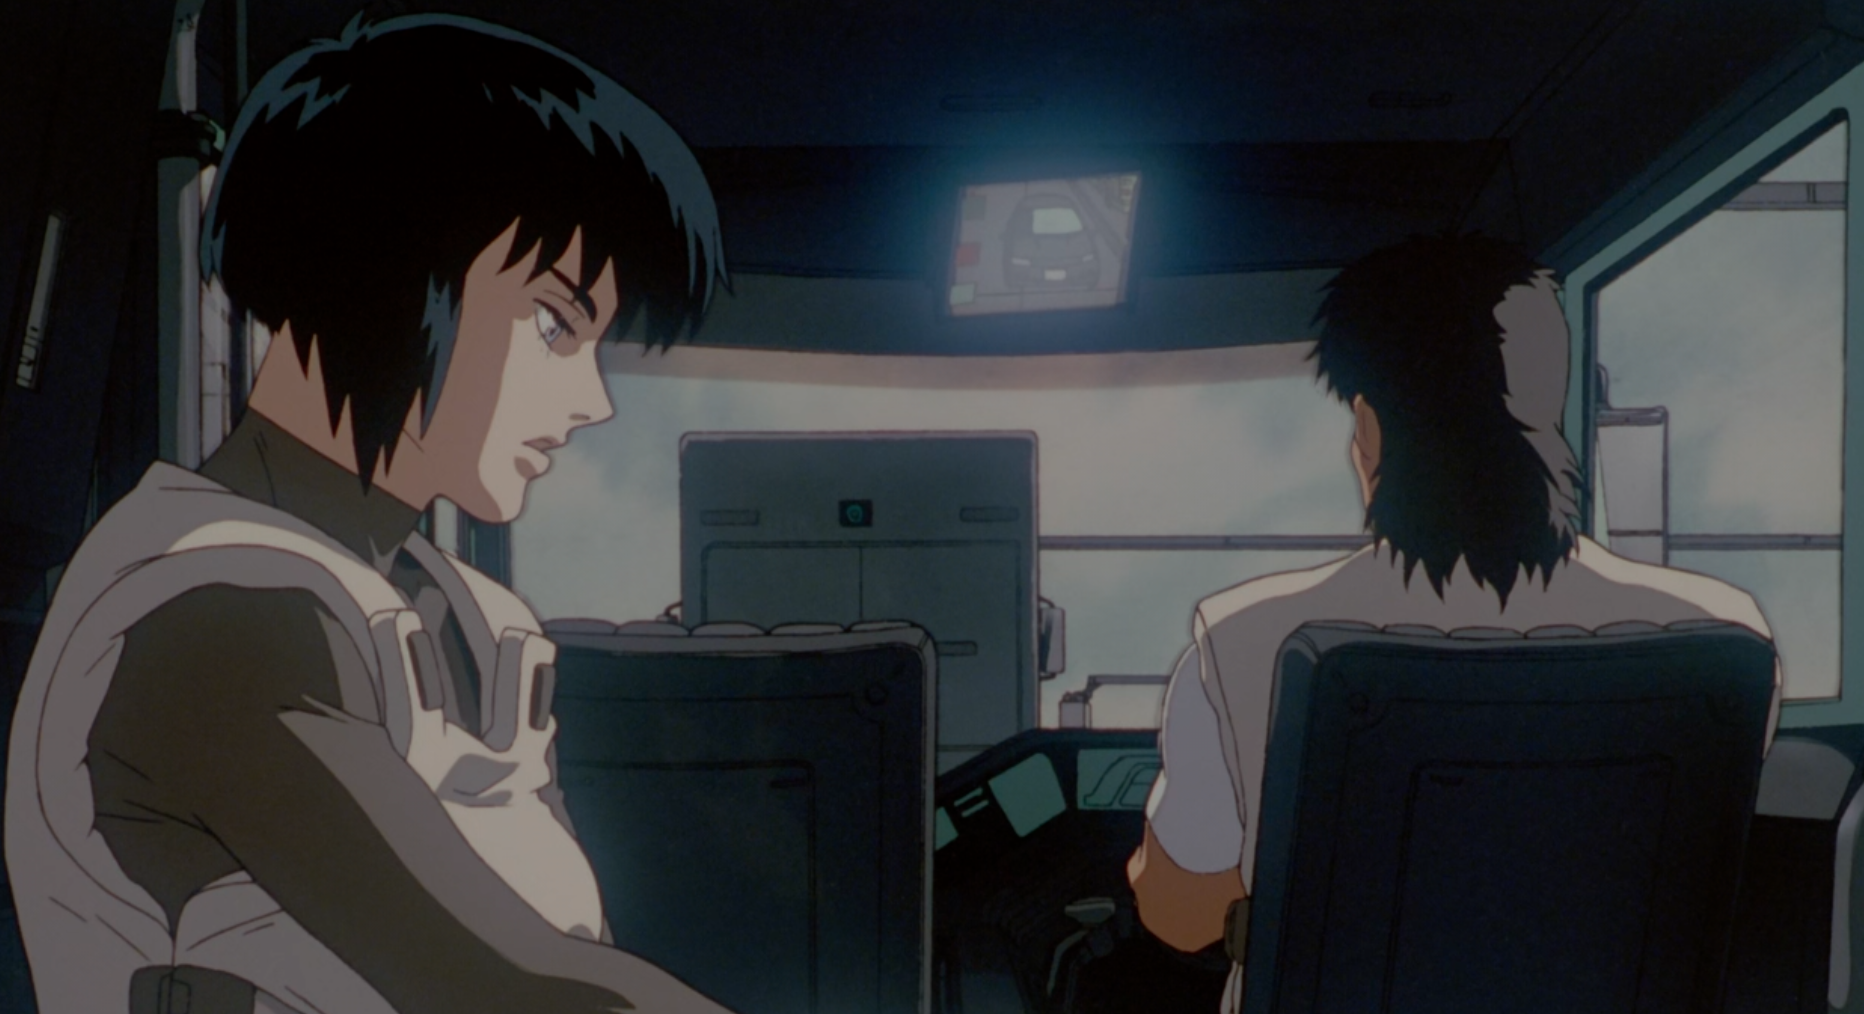
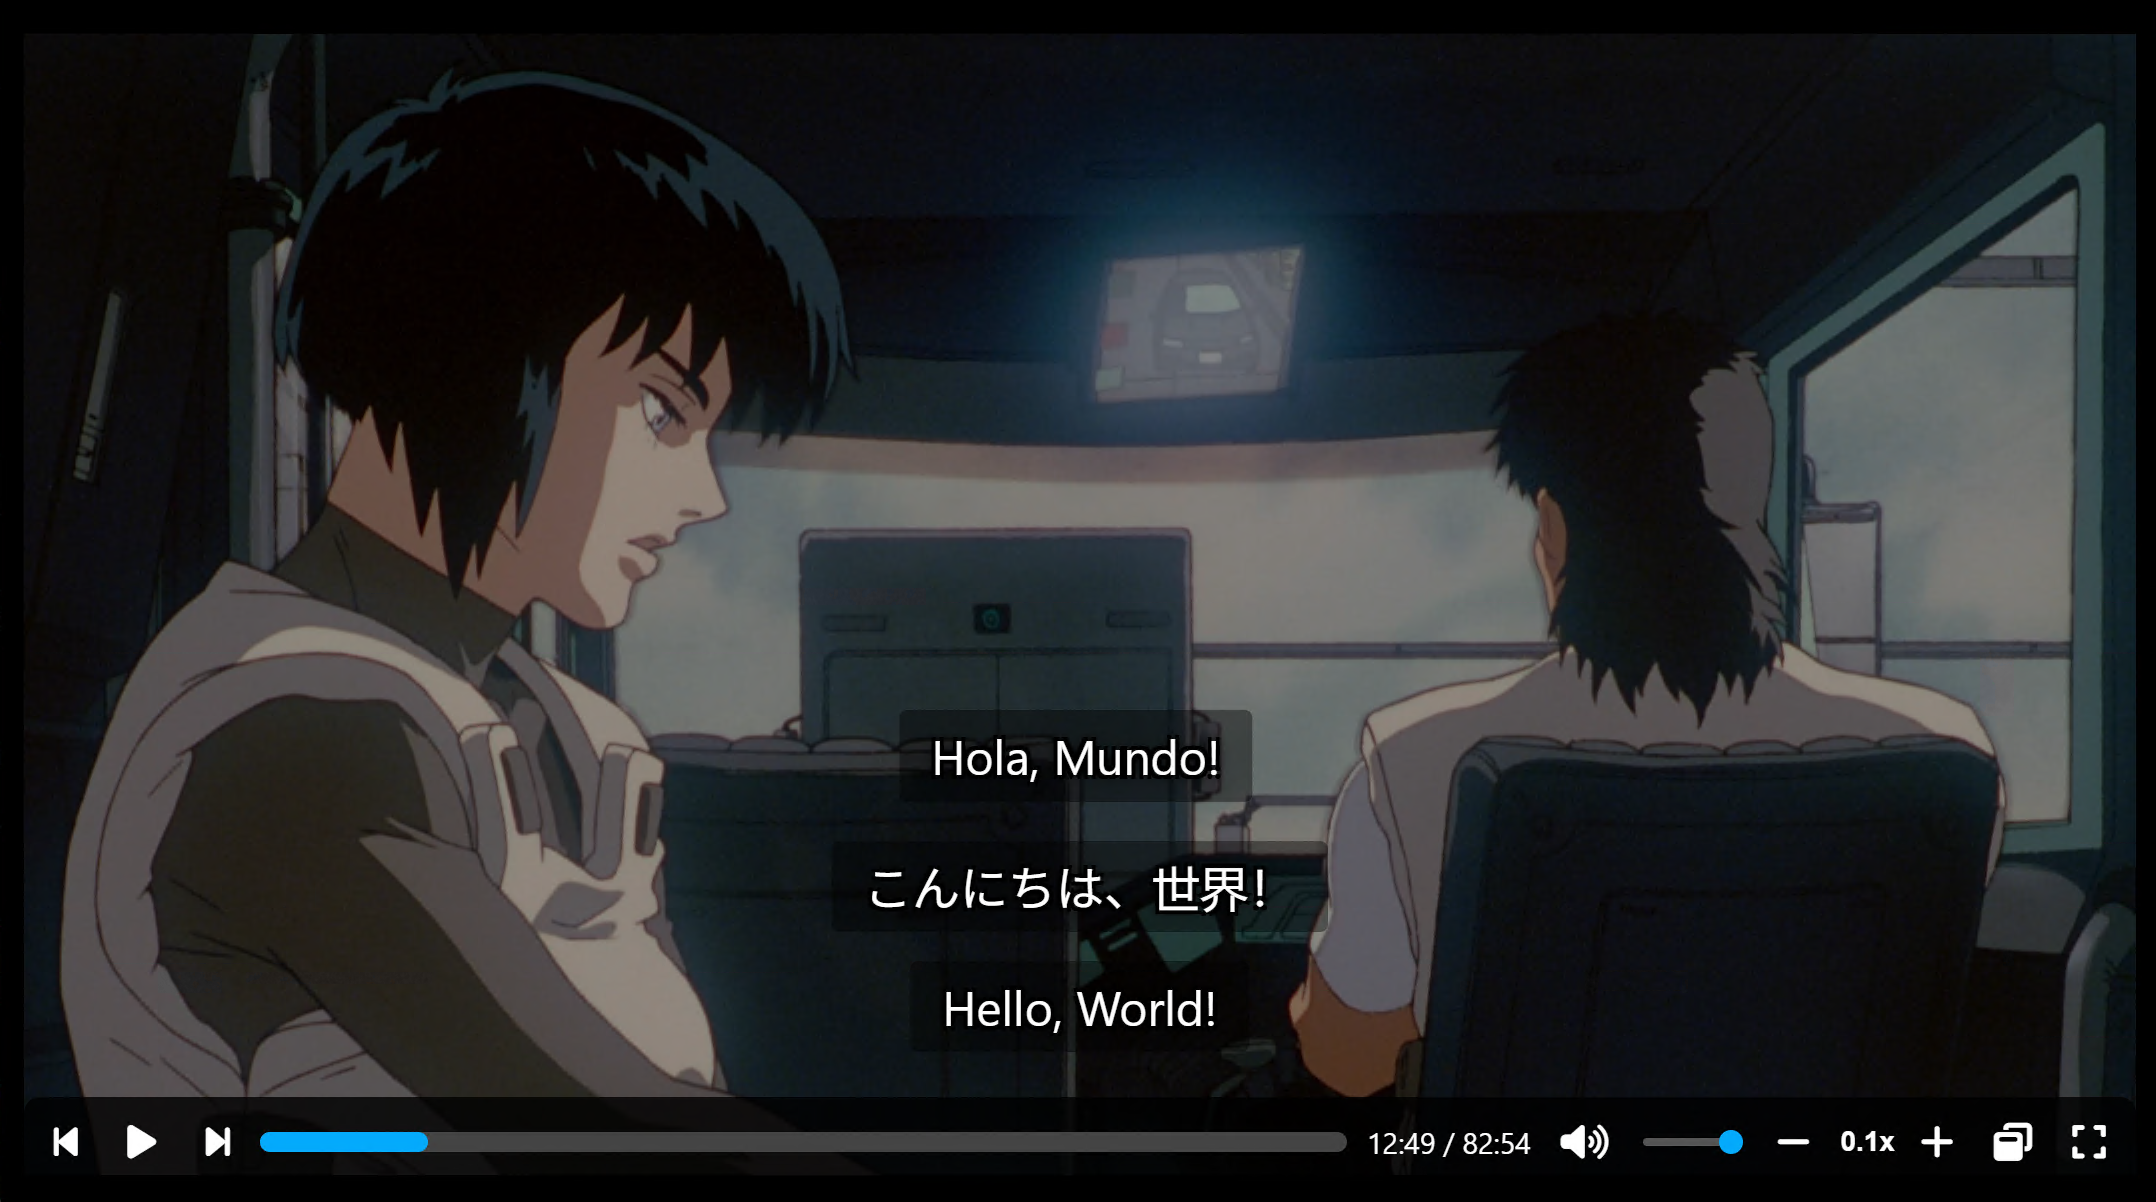
Add files via upload

Changed region(s): [[0.0, 0.0, 1.0, 1.0], [0.4979, 0.0, 0.6534, 0.0306], [0.4356, 0.4892, 0.4667, 0.5197]]

diff --git a/RX-HOME/index.html b/RX-HOME/index.html
@@ -47,15 +47,15 @@
             </div>
             <div class="hero-image">
                 <div class="player-mockup">
-                   <div class="mockup-screen" style="background: url('img/1.png') center/cover no-repeat, linear-gradient(135deg, #1a1a2e, #16213e);">
-                        <div class="mockup-controls">
+                   <div class="mockup-screen" style="background: url('img/1.webp') center/cover no-repeat, linear-gradient(135deg, #1a1a2e, #16213e);">
+                        <!--div class="mockup-controls">
                             <div class="control-bar"></div>
                             <div class="subtitle-demo">
                                 <div class="subtitle-line" data-i18n="subtitle.line1">字幕1: Hello, World!</div>
                                 <div class="subtitle-line" data-i18n="subtitle.line2">字幕2: こんにちは、世界！</div>
                                 <div class="subtitle-line" data-i18n="subtitle.line3">字幕3: Hola, Mundo!</div>
                             </div>
-                        </div>
+                        </div-->
                     </div>
                 </div>
             </div>
